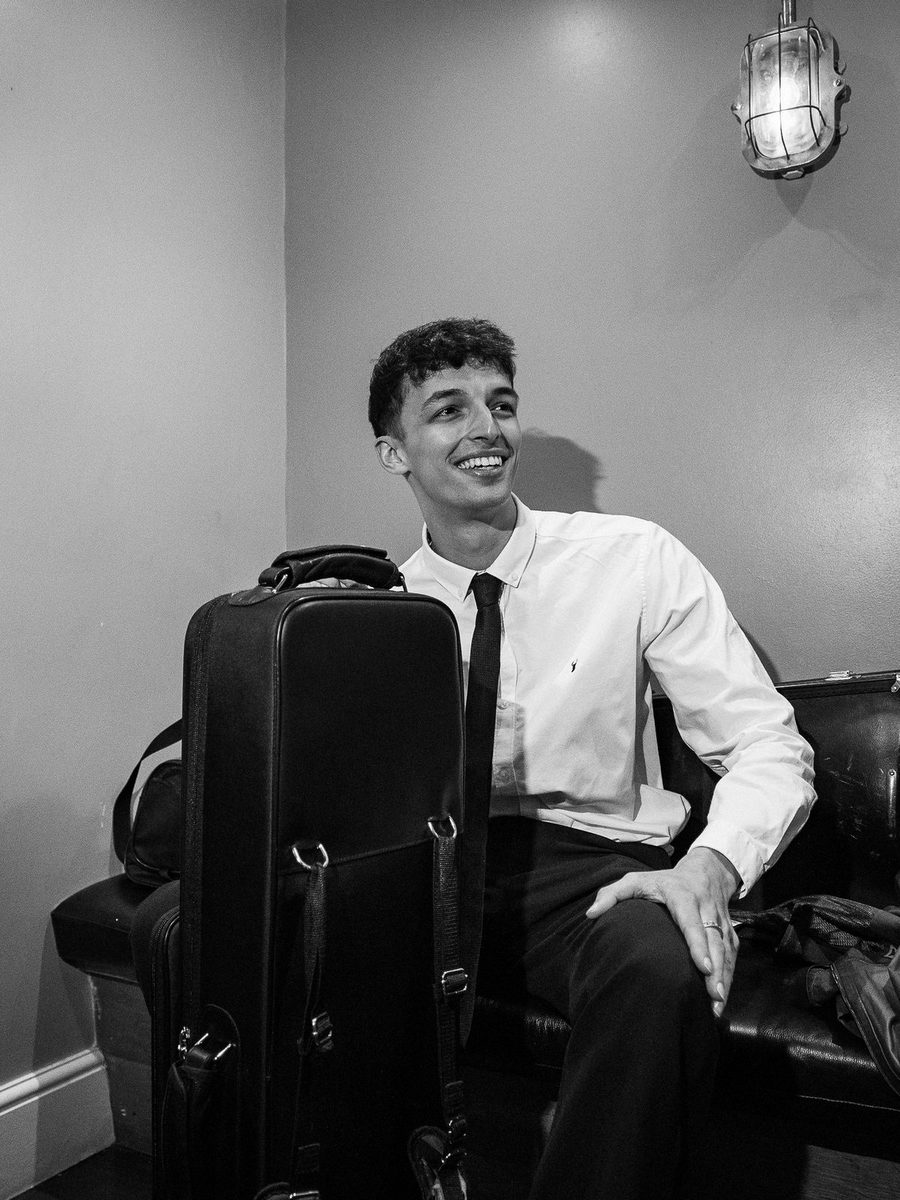
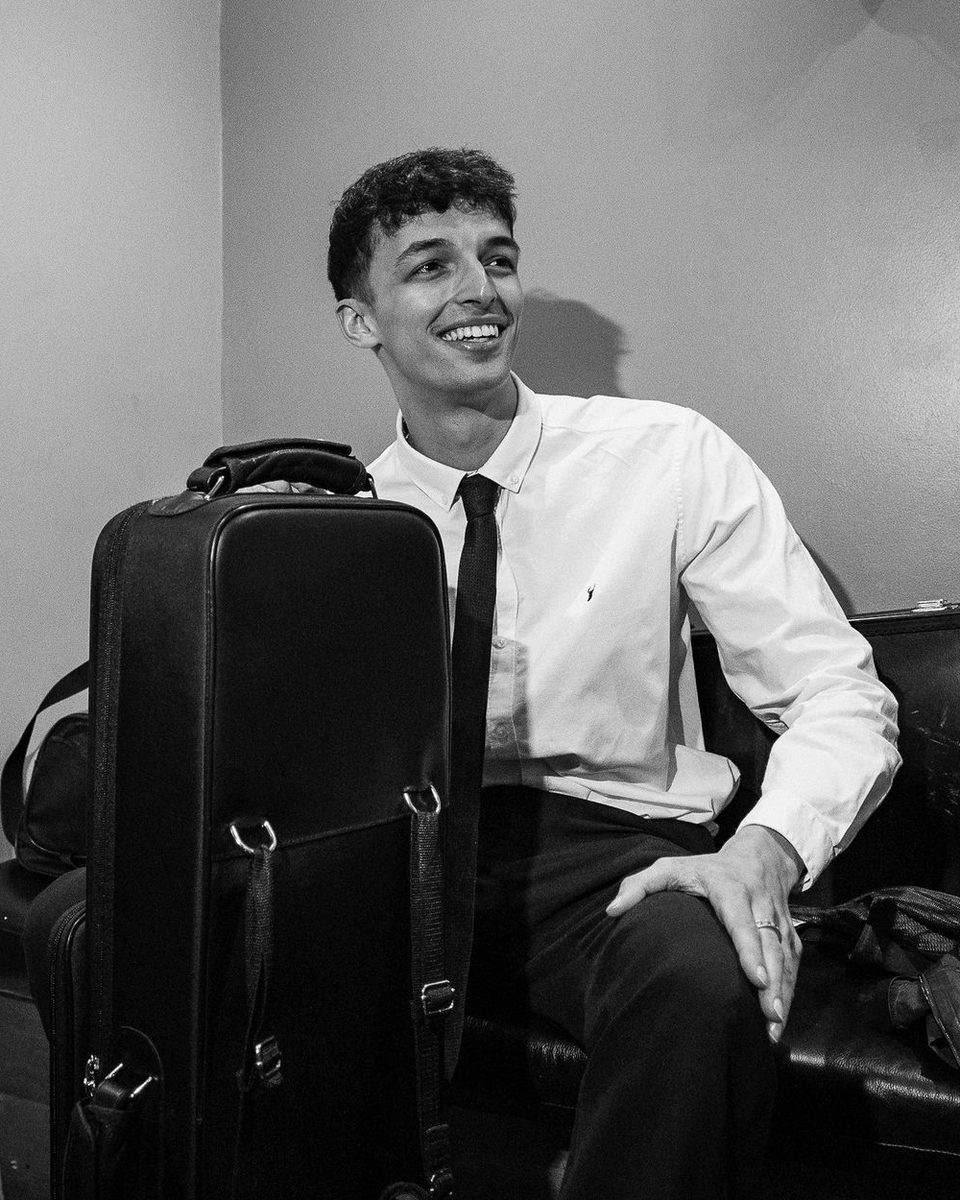
Make the landing page cleaner: lock the name and photo together
The name and portrait now share one size and one height: the photo's top
sits on the cap line of 'Ben' and its bottom on the baseline of 'Joshi',
so they read as one unit instead of two floating pieces. The portrait is
a tighter head-and-shoulders crop (lamp gone, face about 1.7x larger).
The door labels are bigger, both door symbols share the panel's right
edge, the domain line at the top is removed, and on phones the portrait
steps to the right to match desktop.

Claude-Session: https://claude.ai/code/session_01U7dhw6CFB3DFNGF82pEWWU

diff --git a/style.css b/style.css
@@ -915,11 +915,17 @@ code {
    ========================= */
 
 .landing {
+  /* One size drives the name and the portrait: the name fills the left eight
+     columns, the portrait matches its height, and the height cap keeps the
+     doors on screen */
+  --door-min: clamp(200px, 34svh, 320px);
+  --name-mt: clamp(28px, 5svh, 56px);
+  --name-pad: clamp(28px, 5svh, 48px);
+  --F: min(21vw, calc((100svh - var(--door-min) - var(--name-mt) - var(--name-pad)) / 1.68));
   display: grid;
   grid-template-columns: repeat(12, minmax(0, 1fr));
-  /* Name and portrait sit straight under the strip; on tall screens the
-     doors take the spare height instead of a gap opening above the name */
-  grid-template-rows: auto auto 1fr;
+  /* Name and portrait first, then the doors, which take any spare height */
+  grid-template-rows: auto 1fr;
   column-gap: var(--gap);
   min-height: 100vh;
   min-height: 100svh;
@@ -930,19 +936,13 @@ code {
   display: contents;
 }
 
-.landing .poster-info {
-  grid-column: 1 / -1;
-  grid-row: 1;
-  margin: clamp(20px, 3vw, 36px) var(--m) 0;
-}
-
 .name {
   grid-column: 1 / 9;
-  grid-row: 2;
+  grid-row: 1;
   align-self: end;
-  margin: clamp(24px, 4vh, 56px) 0 0 var(--m);
-  padding-bottom: clamp(28px, 5vh, 48px);
-  font-size: min(13vw, 26vh);
+  margin: var(--name-mt) 0 0 var(--m);
+  padding-bottom: var(--name-pad);
+  font-size: var(--F);
   font-weight: 800;
   font-stretch: 112%;
   line-height: 0.84;
@@ -956,7 +956,7 @@ code {
 /* The two doors lead: equal panels across the full width */
 .links {
   grid-column: 1 / -1;
-  grid-row: 3;
+  grid-row: 2;
   display: grid;
   grid-template-columns: repeat(2, minmax(0, 1fr));
 }
@@ -966,7 +966,7 @@ code {
   grid-template-columns: minmax(0, 1fr);
   align-content: space-between;
   gap: 32px;
-  min-height: clamp(200px, 34vh, 320px);
+  min-height: var(--door-min);
   padding: clamp(22px, 3vh, 32px) var(--m) clamp(24px, 3.4vh, 36px);
   background: var(--door);
   color: var(--door-on);
@@ -988,14 +988,16 @@ code {
   display: inline-flex;
   align-items: center;
   gap: 14px;
-  font-size: clamp(1.6rem, 2.6vw, 2.5rem);
+  font-size: clamp(2rem, 3.4vw, 3.5rem);
   font-weight: 650;
   line-height: 1;
   letter-spacing: -0.03em;
 }
 
+/* Both symbols sit on the panel's right edge. The trombone's slide needs spare
+   room to its left to swing, so it can't sit flush under the label. */
 .door .motif {
-  justify-self: start;
+  justify-self: end;
   width: min(100%, 340px);
   max-height: 96px;
 }
@@ -1009,17 +1011,17 @@ code {
   outline-color: var(--paper);
 }
 
-/* The portrait supports the name rather than competing with the doors */
+/* The portrait locks onto the name: same height, top on the cap line of "Ben",
+   bottom on the baseline of "Joshi" */
 .landing .portrait {
   grid-column: 9 / -1;
-  grid-row: 2;
+  grid-row: 1;
   align-self: end;
   justify-self: end;
-  /* The whole backstage photo (3:4), printed in black and white */
-  height: min(50vh, 460px);
+  height: calc(var(--F) * 1.526);
   max-width: 100%;
-  aspect-ratio: 3 / 4;
-  margin: clamp(24px, 4vh, 56px) var(--m) clamp(28px, 5vh, 48px) 0;
+  aspect-ratio: 4 / 5;
+  margin: 0 var(--m) calc(var(--name-pad) + var(--F) * 0.087) 0;
   position: relative;
   background: var(--ink);
 }
@@ -1237,38 +1239,35 @@ code {
     order: 2;
     padding-top: 0;
   }
+}
 
-  /* Landing */
-
+/* Landing on phones: name, then the portrait stepped to the right, then the doors */
+@media (max-width: 640px) {
   .landing {
+    --F: clamp(4rem, 24vw, 9rem);
     display: flex;
     flex-direction: column;
     min-height: 0;
   }
 
-  .landing .poster-info {
-    order: 1;
-  }
-
   .name {
-    order: 2;
+    order: 1;
     align-self: stretch;
-    margin: 40px var(--m) 0;
+    margin: 36px var(--m) 0;
     padding-bottom: 24px;
-    font-size: clamp(4rem, 24vw, 9rem);
   }
 
   .landing .portrait {
-    order: 3;
-    align-self: flex-start;
+    order: 2;
+    align-self: flex-end;
     justify-self: auto;
-    width: clamp(140px, 40vw, 220px);
+    width: clamp(160px, 56vw, 280px);
     height: auto;
-    margin: 0 var(--m) 32px;
+    margin: 0 var(--m) 32px 0;
   }
 
   .links {
-    order: 4;
+    order: 3;
     grid-template-columns: 1fr;
   }
 

diff --git a/index.html b/index.html
@@ -33,10 +33,6 @@
 
     <section class="intro">
 
-      <p class="poster-info">
-        <span>benjoshi.co.uk</span>
-      </p>
-
       <h1 class="name">
         <span>Ben</span> <span>Joshi</span>
       </h1>
@@ -73,7 +69,7 @@
       <img
         src="images/landing-portrait.jpg"
         alt="Ben Joshi sitting backstage beside his trombone case"
-        width="900"
+        width="960"
         height="1200"
       >
     </figure>

diff --git a/DESIGN.md b/DESIGN.md
@@ -174,7 +174,7 @@ A printed two-ink palette: one neutral paper, one black with a softer grey for s
 A 12-column grid (`repeat(12, minmax(0, 1fr))`) with fluid outer margin (`margin` token) and gutter (`gap` token). Settings are flush-left, ragged-right.
 
 - **Hero split:** content in columns 1–7, room colour field in columns 8–12 at full viewport height minus the nav.
-- **Landing:** a 100svh poster in three bands: the domain strip on top, then the name (columns 1–8, bottom-aligned) beside the uncropped 3:4 backstage portrait in black and white (`images/landing-portrait.jpg`, up to 460px tall, right-aligned, same baseline); it shows both rooms in one picture and stays in black ink so the doors keep the only colour, then the two doors side by side as equal colour panels across the full width, which grow to fill any spare screen height so the name never drifts down the page. The doors lead; the portrait supports. On phones it stacks name, a small portrait, then the doors.
+- **Landing:** a 100svh poster in two bands. The top band is the name (columns 1–8, "Ben" over "Joshi") beside a 4:5 head-and-shoulders crop of the backstage photo in black and white (`images/landing-portrait.jpg`), locked to the name: the portrait is exactly as tall as the name, its top on the cap line of "Ben" and its bottom on the baseline of "Joshi", with its right edge on the page margin. One size drives both (`--F`: the name fills the left eight columns, capped so the doors keep their minimum height on short screens), so the pair scales together. The second band is the two doors side by side as equal colour panels across the full width, which take any spare screen height. The doors lead; the portrait supports. On phones (≤640px) it stacks: name, the portrait stepped to the right, then the doors.
 - **Sections:** heading in columns 1–4, content in 5–12. Wide sections put the heading in 1–5, a lead in 7–12, and the body full width below. Vertical padding is the `section-y` clamp.
 - **Tracklist:** a fixed four-column row (name 3.2fr, description 5fr, stack 2.6fr, 44px toggle). Expanded case studies reuse the same columns, with subheads in column 1 and prose in 2–3.
 - **Close:** heading and note in columns 1–7, contact links stacked in 8–12, bottom-aligned.
@@ -207,7 +207,7 @@ Every edge is square (0px radius) by default and by declaration. Form comes from
 - Mobile (≤860px): static, logo above a wrapping row of links.
 
 ### Doors (landing signature)
-Two equal colour panels side by side across the full width (stacked on phones), one per room: label (650, clamp(1.6rem, 2.6vw, 2.5rem)) with arrow at the top, the room's motif at the foot (max 340px wide, 96px tall). They wipe in from the left on load (Music 120ms behind). Hover advances the motif and nudges the arrow. Focus is a 3px inset outline in the band's text colour.
+Two equal colour panels side by side across the full width (stacked on phones), one per room: label (650, clamp(2rem, 3.4vw, 3.5rem)) with arrow at the top-left, the room's motif at the bottom-right (max 340px wide, 96px tall). Both motifs share the panel's right edge; the trombone cannot sit flush under the label because its slide needs spare room to its left to swing. They wipe in from the left on load (Music 120ms behind). Hover advances the motif and nudges the arrow. Focus is a 3px inset outline in the band's text colour.
 
 ### Colour Field (subpage signature)
 The right five hero columns filled with the room ink. Holds a photo printed as a true two-colour duotone by an inline SVG gradient-map filter (`filter: url(#duotone)`: desaturate, then map shadows to `--ink`, midtones to the room ink and highlights to `--paper`; each page defines `#duotone` with its own room ink), an optional 1.2rem caption, and the room motif drawn below in `--on-room`. It wipes in from the right on load.
@@ -220,7 +220,7 @@ The right five hero columns filled with the room ink. Holds a photo printed as a
 A `<details>` list between 3px rules, rows split by 1px ink rules. A 32px square toggle with a 2px ink border draws a plus that rotates to a minus when open. Hover and open state turn the name to room text and fill the toggle with the room ink. Case studies fade down 6px over 500ms. List bullets are 10px room-ink dashes.
 
 ### Poster Info Strip
-A small bold label line bounded by a 1px ink rule, carrying identifying text only (the domain on the landing, the room's subjects on subpages). It sits at the poster's edge: top of the landing, foot of the subpage hero.
+A small bold label line bounded by a 1px ink rule, carrying identifying text only (the room's subjects). It sits at the foot of the subpage hero. The landing has no strip: the name is the first thing on the page.
 
 ### Carousel
 Full-width ink track with crossfading slides (600ms), then a bar with a tabular counter, 36px x 4px dash indicators (hair at rest, graphite on hover, room ink when active), and 48px square ink buttons that take the room ink on hover. Closed by a 3px ink rule.

diff --git a/PRODUCT.md b/PRODUCT.md
@@ -32,7 +32,7 @@ A Computer Science graduate working day-to-day as an Assistant Data and Insights
 
 ## Operating Context
 
-- Landing page (`index.html`): name, portrait, and two doors: Software & Data, and Music.
+- Landing page (`index.html`): name, a portrait locked to the name's height, and two doors: Software & Data, and Music.
 - Software & Data (`software/index.html`): intro, selected projects as expandable case studies (overview, architecture, technical highlights, what's next / what I'd improve), current experience, technical skills, about, contact.
 - Music (`music/index.html`): split hero with a booking form, about, bands (The Hoplites and previous bands), on-stage photos, qualifications, and a booking close. Its goal is a bandleader or booker emailing a date.
 - Visitors typically arrive via direct links (CV, LinkedIn, GitHub, social previews), so Open Graph metadata matters.
